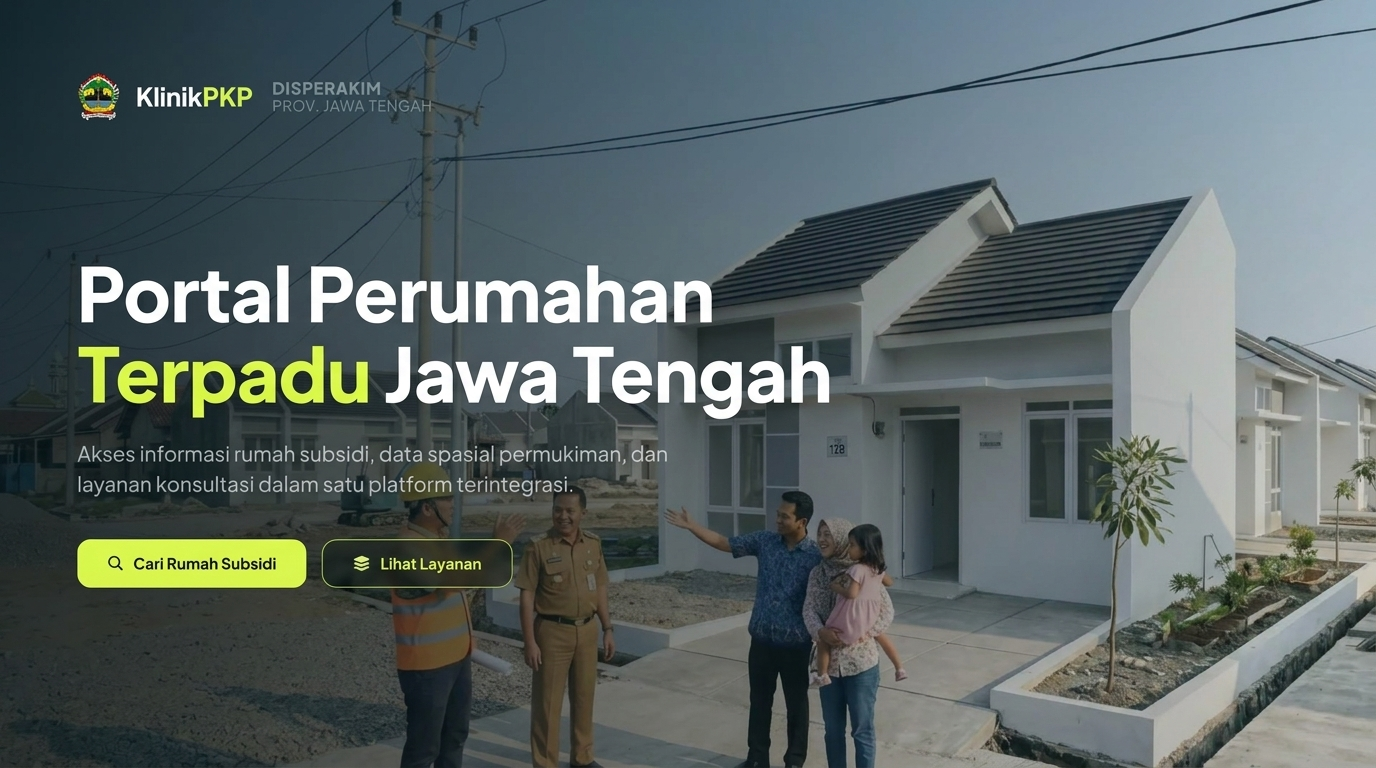
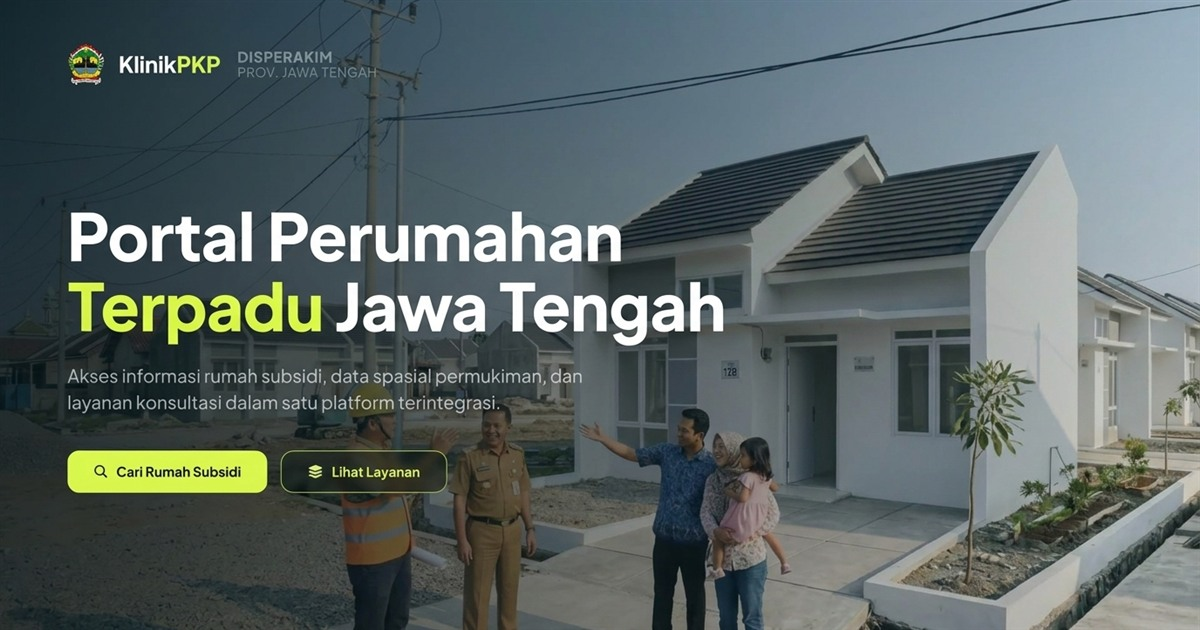
ddd

diff --git a/application/views/layouts/head.php b/application/views/layouts/head.php
@@ -8,7 +8,7 @@
     <!-- Open Graph -->
     <meta property="og:type" content="website">
     <meta property="og:title" content="Klinik PKP — Portal Perumahan Terpadu Jawa Tengah">
-    <meta property="og:description" content="Akses informasi rumah subsidi, data spasial permukiman, dan layanan konsultasi dalam satu platform terintegrasi — Disperakim Provinsi Jawa Tengah.">
+    <meta property="og:description" content="Portal informasi rumah subsidi, data spasial, dan konsultasi permukiman terpadu Jawa Tengah.">
     <meta property="og:image" content="<?= base_url('assets/img/og-cover.jpg') ?>">
     <meta property="og:image:width" content="1200">
     <meta property="og:image:height" content="630">
@@ -19,7 +19,7 @@
     <!-- Twitter Card -->
     <meta name="twitter:card" content="summary_large_image">
     <meta name="twitter:title" content="Klinik PKP — Portal Perumahan Terpadu Jawa Tengah">
-    <meta name="twitter:description" content="Akses informasi rumah subsidi, data spasial permukiman, dan layanan konsultasi terpadu.">
+    <meta name="twitter:description" content="Portal informasi rumah subsidi, data spasial, dan konsultasi permukiman terpadu Jawa Tengah.">
     <meta name="twitter:image" content="<?= base_url('assets/img/og-cover.jpg') ?>">
 
     <link rel="icon" href="<?= base_url('assets/img/logo-jateng.png') ?>" type="image/png">
